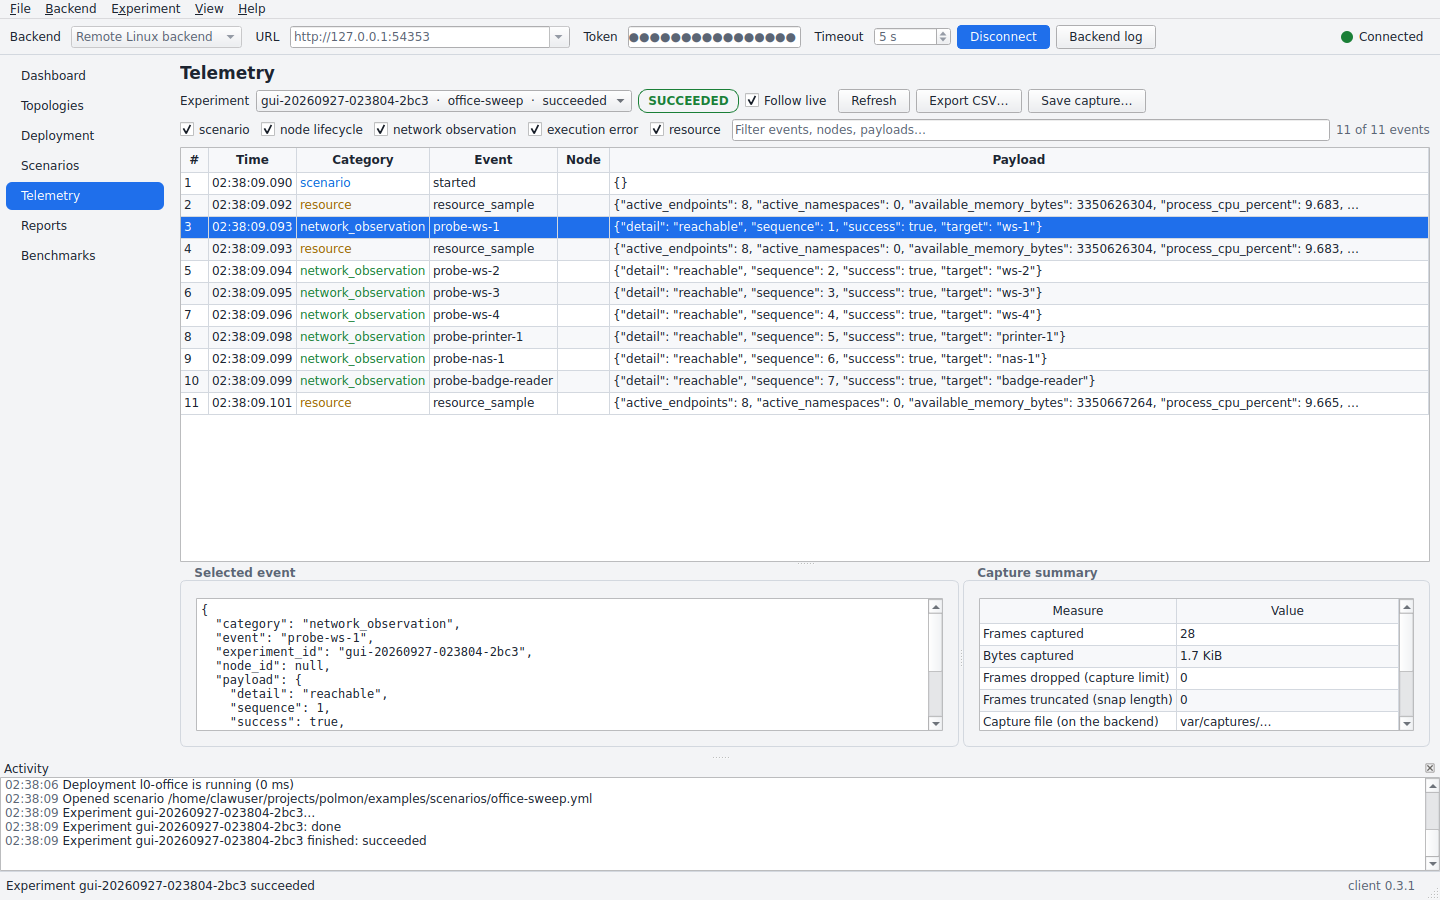
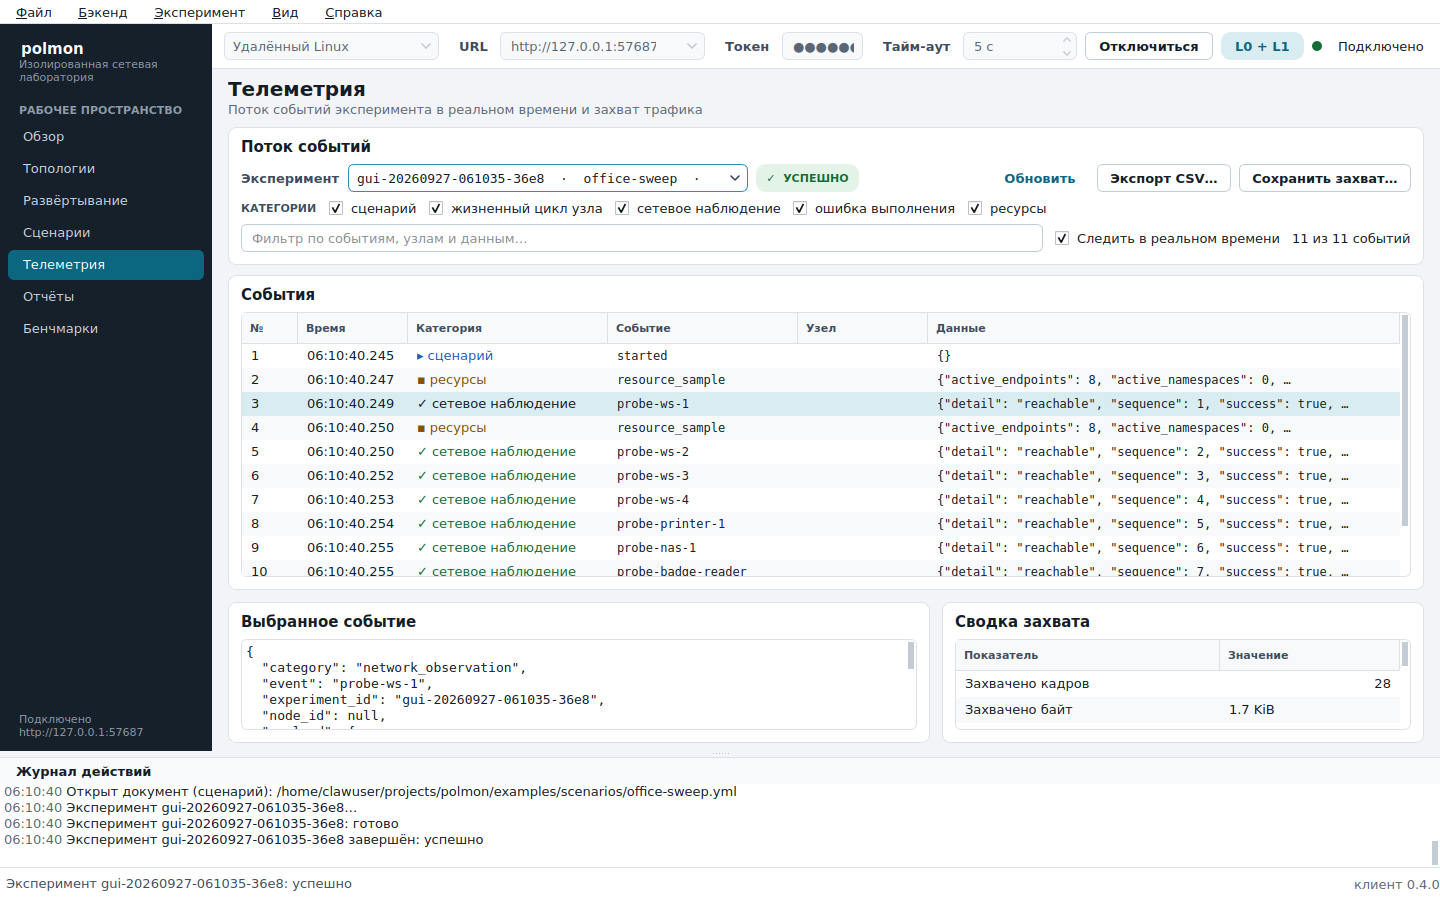
docs(ui): UI guide, approach (a), and real Russian renders of v0.4.0
- docs/UI-GUIDE.md: languages and gates, the enforced glossary, design tokens for both themes,
  spacing/type/radius scales, layout and components, usability floor, shortcuts, and the
  screenshot inventory with before/after pairs and the language-switch proof.
- ARCHITECTURE.md: localization design and backend text by message code (approach (a); (b)
  rejected, with reasons). README and CLIENT.md: the language switch.
- docs/ui: all 15 renders regenerated from the running v0.4.0 client and a live backend at
  1440x900 in Russian, plus before-switch-ru and language-switch-en.

diff --git a/docs/UI-GUIDE.md b/docs/UI-GUIDE.md
@@ -1,0 +1,249 @@
+# Desktop client UI guide
+
+The visual system, the language rules and the evidence for the polmon desktop client
+(`polmon-client`). The product UI is Russian by default and English on request; this guide and
+all other documentation stay in English. Code: `src/polmon/client/theme.py` (tokens and
+stylesheet), `widgets.py` (components), `i18n.py` and `locales/` (catalogs).
+
+## 1. Languages
+
+- **Russian is the default.** English is selectable at run time from *Вид → Язык / View →
+  Language* or with **Ctrl+Shift+U**. The switch is immediate: no restart, and nothing else
+  changes — connection, open documents, tables, selections, the running operation and the page
+  stay as they were. The choice is stored per user; `--language ru|en` or `POLMON_LANGUAGE`
+  override it for one run.
+- **Every user-visible string comes from a catalog** (`locales/ru.py`, `locales/en.py`, identical
+  key sets). Widgets bind to keys (`bind`, `bind_text`, `bind_tip`) and re-render on a switch;
+  computed text is built from lazy `Msg` values that render when displayed. Plurals follow CLDR
+  (`ru`: one/few/many/other, `en`: one/other).
+- **Qt's own strings** (standard dialog buttons, context menus of text fields) come from Qt's
+  `qtbase_<lang>.qm`, installed with the language; the packaged clients ship `qtbase_ru.qm`.
+- **Backend text is never shown raw.** The backend sends a stable `message_code` and `params`
+  with every error (approach (a), [ARCHITECTURE.md](../ARCHITECTURE.md)); the client renders
+  `backend.<message_code>`. The English backend `message` appears only, quoted, when an older
+  backend sends no code. Tracebacks never reach the UI.
+- **What stays as is:** identifiers and data (topology, node and experiment IDs, URLs, file
+  paths, YAML and JSON documents, event names), the activity log's history (lines keep the
+  language they were written in), and the kept technical terms below.
+
+### Gates
+
+| Gate | What fails it | Where |
+|------|---------------|-------|
+| `scripts/i18n-lint.py` | a literal handed to a Qt text API, English prose or a composed English f-string in client code, Cyrillic outside the catalogs | CI (both OS), `tests/unit/test_i18n_gates.py` |
+| `scripts/i18n-completeness.py` | different key sets or placeholders, wrong plural forms, empty values, English words left in Russian, Cyrillic in English, a glossary variant, a key the code uses but no catalog has (including dynamic families and every backend message code), an unused key | CI (both OS), unit suite |
+| Screen walk (`tests/gui/test_language.py`) | English prose on any Russian screen, Cyrillic on any English screen, lost state across a switch, a missing key looked up at run time | GUI suite, run in Russian and in English |
+
+Evidence of both gates passing and failing on injected violations:
+[evidence/i18n/](evidence/i18n/). Deliberate exceptions carry an `# i18n: allow` comment;
+CLI output, the self-test and the packaged-client probe stay English (they are parsed by CI).
+
+### Glossary
+
+One Russian term per concept. The right column lists variants the completeness gate rejects in
+the Russian catalog.
+
+| English | Russian | Rejected variants |
+|---------|---------|-------------------|
+| backend | бэкенд | `бекенд`, `бэкэнд`, `сервер\s+polmon` |
+| client | клиент | — |
+| deployment / deploy | развёртывание / развернуть | `развертыв`, `деплой` |
+| destroy | разобрать | `уничтож`, `снести` |
+| reset environment | сбросить окружение | — |
+| topology | топология | — |
+| node | узел | `\bнод[аыуе]?\b` |
+| endpoint | конечная точка | `эндпоинт`, `endpoint` |
+| namespace | пространство имён | `неймспейс`, `пространств\w* имен\b` |
+| scenario | сценарий | — |
+| experiment | эксперимент | — |
+| action | действие | — |
+| telemetry | телеметрия | — |
+| report | отчёт | `\bотчет` |
+| benchmark | бенчмарк | `\bтест производительности` |
+| measurement | замер | — |
+| admission control | контроль допуска | — |
+| limit | лимит | `\bквот` |
+| capture | захват | `перехват` |
+| frame | кадр | `фрейм` |
+| validate / validation | проверить / проверка | `валидац` |
+| timeout | тайм-аут | `таймаут` |
+| activity log | журнал действий | `\bлог\b`, `\bлоги\b` |
+| CPU | ЦП | `\bCPU\b` |
+| emulation level (fidelity) | уровень эмуляции | — |
+| token | токен | — |
+
+**Kept as is** in both languages (names, protocols, formats, units): polmon, L0, L1, L2, TAP,
+YAML, JSON, PCAP, CSV, Markdown, HTTP(S), API, URL, IP, IPv4, MAC, ICMP, TCP, ARP, TTL,
+Ethernet, EtherType, RSS, ID, SHA-256, Linux, Windows, systemd, sudo, iproute2, ping, veth,
+Qt, PySide6, and the byte units B, KiB, MiB, GiB (`scripts/i18n_audit.py`, `KEPT_TERMS`).
+Mixed forms are fine where Russian usage has them: *MAC-адрес*, *IP-адрес*,
+*loopback-интерфейс*.
+
+**Numbers and units.** Decimal point in both languages (values are copied into YAML and
+tickets); byte sizes in IEC units; durations in the language's abbreviations: `мс`, `с`, `мин`,
+`ч` / `ms`, `s`, `min`, `h` (`unit.*` keys). Timestamps are ISO-like `YYYY-MM-DD HH:MM:SS`.
+
+**Style.** Sentence case for titles, buttons and menu items; buttons are verbs in the
+infinitive (*Развернуть*, *Разобрать*, *Сбросить окружение*); Russian quotes «…» around names;
+`ё` is always written; no exclamation marks; errors say what happened, then what to do.
+
+## 2. Design tokens
+
+One accent (deep teal) on slate neutrals. Semantic colours are for status only; each has a soft
+surface for banners and badges. `theme.TOKENS`:
+
+| Token | Light | Dark | Use |
+|-------|-------|------|-----|
+| `bg` | `#f2f4f7` | `#0e131a` | window and page background |
+| `surface` | `#ffffff` | `#161d26` | cards, inputs, tables |
+| `surface_alt` | `#f7f9fb` | `#1b232d` | tiles, alternate rows, table headers |
+| `surface_hover` | `#eef2f6` | `#222c38` | hovered rows and buttons |
+| `border` | `#dce1e8` | `#2a3542` | card and input borders |
+| `border_strong` | `#c3cbd5` | `#3a4757` | editors, focused groups |
+| `text` | `#141c26` | `#e6ebf1` | body text and values |
+| `text_secondary` | `#3f4b5b` | `#b8c2ce` | field labels, tile captions |
+| `text_muted` | `#5a6676` | `#95a1af` | hints, subtitles, secondary lines |
+| `accent` | `#0b6680` | `#2d9cbd` | primary buttons, links, selection, charts |
+| `accent_hover` | `#08546a` | `#3fb0d2` | primary hover |
+| `accent_pressed` | `#064456` | `#2587a4` | primary pressed |
+| `accent_soft` | `#d9ecf2` | `#173746` | selected rows, quiet-button hover, pills |
+| `accent_text` | `#ffffff` | `#06121a` | text on `accent` |
+| `success` | `#146c36` | `#4cc37a` | succeeded, connected, met |
+| `warning` | `#8a4f00` | `#e3a33b` | cancelled, not run, modified |
+| `danger` | `#b42318` | `#f0736a` | failed, refused, destructive buttons |
+| `info` | `#1d5bb8` | `#7aa7f5` | running, connecting |
+| `success_soft` | `#e3f3e8` | `#132b1d` | success banner/badge surface |
+| `warning_soft` | `#fcf0d8` | `#33260f` | warning banner/badge surface |
+| `danger_soft` | `#fce9e7` | `#3a1716` | error banner/badge surface |
+| `info_soft` | `#e4ecfa` | `#152540` | information banner/badge surface |
+| `nav_bg` | `#16202b` | `#0a0f15` | sidebar |
+| `nav_hover` | `#212e3c` | `#16202b` | sidebar hover |
+| `nav_active` | `#0b6680` | `#1f7f9c` | current page |
+| `nav_text` | `#cdd6e0` | `#c3cdd8` | sidebar items |
+| `nav_text_active` | `#ffffff` | `#ffffff` | current page, product name |
+| `nav_muted` | `#8f9cab` | `#8593a3` | sidebar section and footer |
+| `chart` | `#0b6680` | `#3fb0d2` | sparklines |
+| `focus` | `#2b8fb0` | `#3fb0d2` | keyboard-focus ring |
+
+Themes: *system* (follows the OS), *light*, *dark* — **Ctrl+Shift+T** cycles them.
+
+### Scales
+
+| Scale | Steps |
+|-------|-------|
+| Spacing (`SPACE`, 4-px grid) | `xs` 4 · `sm` 8 · `md` 12 · `lg` 16 · `xl` 24 |
+| Type (`TYPE`, px) | caption 11 · body 13 (strong 13/600) · subtitle 15 · title 20 · metric 22 |
+| Radius (`RADIUS`) | control 6 · card 8 · pill 10 |
+| Control height | 28 px for buttons, inputs, combo and spin boxes |
+
+Page padding is `lg` horizontally and `sm` vertically; cards have `md` padding and `sm` gaps;
+tiles show a caption (11/600), one metric (22/600) and one muted detail line.
+
+## 3. Layout and components
+
+- **Window:** dark sidebar (brand, *Рабочее пространство* navigation, connection footer), a
+  connection header (mode, URL, token, timeout, connect/disconnect, emulation-level pill,
+  state), the page, the dockable activity log and the status bar (connection summary, busy
+  indicator or operation progress with *Отменить*, client version).
+- **Page:** title and one-line subtitle, header actions on the right, one problem banner, then
+  cards. Everything fits 1440×900 in both languages with a banner shown
+  (`test_window_fits_1440_by_900_on_every_page_with_banners`).
+- **Card** (`Card`): title, optional muted hint, content. **KeyValueGrid**: label/value pairs in
+  column pairs, long values in the first column, identifiers monospaced and never broken.
+  **ResourceTiles**: live counters with sparklines. **Tables** (`make_table`): sortable,
+  resizable, alternating rows, monospaced identifier columns, numbers right-aligned, status
+  cells with glyph + word; columns fit their content and a long cell cannot take the table.
+- **Buttons by role:** *primary* (filled accent, one per area), *secondary* (outlined),
+  *danger* (red outline; always confirmed), *quiet* (text only, for links such as *Все отчёты*).
+- **States** (`StateView`): *empty* (○ + what to do next), *loading* (spinner + what is
+  loading), *error* (✕ + the problem), always with a sentence, never a blank area.
+- **Feedback:** problem banners (title — detail, bullet items, hint; closable), a status-bar
+  busy indicator for any request that takes longer than 400 ms, operation progress with
+  percentage, step, elapsed time, ETA and *Отменить* (Esc), and a task-bar alert when a long
+  operation ends while the window is in the background.
+- **Destructive actions** (*Разобрать*, *Сбросить окружение*, quitting with an operation
+  running) ask for confirmation in a dialog that names the object and the consequence.
+
+## 4. Usability floor
+
+- **Contrast ≥ 4.5:1** for every text/background token pair in both themes, verified by
+  `tests/unit/test_theme_contrast.py` (72 pairs).
+- **Never colour alone:** each status has its own glyph — ✓ success, ● in progress, ! warning,
+  ✕ error, ○ inactive — beside the word, in tables, badges, tiles and the status bar.
+- **Keyboard:** every action has a menu entry; tab order follows reading order; the focus ring
+  uses `focus`; the shortcut list is in *Справка → Сочетания клавиш* (F1) and in
+  [CLIENT.md](CLIENT.md#keyboard-shortcuts).
+- **Assistive technology:** every input, editor, list and table has an accessible name from the
+  catalog (`a11y.*`), checked by `test_inputs_editors_and_views_have_accessible_names`.
+
+| Keys | Action |
+|------|--------|
+| Ctrl+Return | connect / disconnect |
+| Ctrl+L | focus the backend URL |
+| F5 | refresh |
+| Ctrl+O / Ctrl+Shift+O | open a topology / a scenario |
+| Ctrl+S | save the current document |
+| Ctrl+Shift+V | validate |
+| Ctrl+D / Ctrl+Shift+D | deploy / destroy |
+| Ctrl+Shift+R | reset the environment |
+| Ctrl+R | run the experiment |
+| Esc | cancel the running operation |
+| Ctrl+1 … Ctrl+7 | go to a page |
+| Ctrl+Shift+T | cycle the theme |
+| Ctrl+Shift+L | show or hide the activity log |
+| Ctrl+Shift+U | switch the UI language |
+| F1 | keyboard shortcuts |
+| Ctrl+Q | quit |
+
+## 5. Screenshot inventory
+
+All images are real renders of the running client (`scripts/ui_screenshots.py`: offscreen
+platform, window 1440×900, a live `polmon-backend` with an API token, the `l0-office` topology
+and the `office-sweep` scenario). CI renders the same set, plus the English UI, as the
+`ui-screenshots` artifact. Details: [ui/SCREENSHOTS.md](ui/SCREENSHOTS.md).
+
+### Before / after
+
+The *before* images are the v0.3.2 client (commit `cfa3f18`, English, pre-Phase IV); the
+*after* images are this version in Russian, the default.
+
+| Screen | Before (v0.3.2) | After |
+|--------|-----------------|-------|
+| Dashboard | [ui/before/dashboard.png](ui/before/dashboard.png) | [ui/dashboard.png](ui/dashboard.png) |
+| Deployment | [ui/before/deployment.png](ui/before/deployment.png) | [ui/deployment.png](ui/deployment.png) |
+
+What changed on these two screens: a dark navigation sidebar replaces the light list; the
+connection controls moved into a slim header with the emulation-level pill; identity and
+admission limits became aligned key/value cards; live counters became tiles with a metric,
+one explanatory line and a sparkline; tables gained monospaced identifiers, right-aligned
+numbers and status glyphs; destructive buttons are styled as such and confirmed; empty tables
+say what to do next.
+
+### Language switch
+
+| Image | Shows |
+|-------|-------|
+| [ui/before-switch-ru.png](ui/before-switch-ru.png) | the deployment page in Russian just before the switch |
+| [ui/language-switch-en.png](ui/language-switch-en.png) | the same window after *View → Language → English* at run time: same connection, deployment, selection and banner |
+
+### Every screen (Russian)
+
+| Image | Screen |
+|-------|--------|
+| [ui/local-backend.png](ui/local-backend.png) | *Локальный (только L0)* preset: owned loopback backend, L0-only pill |
+| [ui/dashboard.png](ui/dashboard.png) | Обзор: backend identity, admission limits, live resources, recent experiments |
+| [ui/topologies.png](ui/topologies.png) | Топологии: editor, validation, nodes/networks inspector, resource fit |
+| [ui/validation-error.png](ui/validation-error.png) | a validation problem pointing at its YAML line |
+| [ui/deployment.png](ui/deployment.png) | Развёртывание: target, deployments, owned resources, counters |
+| [ui/admission-rejected.png](ui/admission-rejected.png) | a refusal by admission control naming the limit |
+| [ui/scenarios.png](ui/scenarios.png) | Сценарии: a finished experiment with per-action status |
+| [ui/telemetry.png](ui/telemetry.png) | Телеметрия: filtered event stream, payload, capture summary |
+| [ui/reports.png](ui/reports.png) | Отчёты: status and expected-versus-actual conditions |
+| [ui/report-markdown.png](ui/report-markdown.png) | the report rendered in Russian from its JSON |
+| [ui/benchmarks.png](ui/benchmarks.png) | Бенчмарки: a bounded job, its limits and the retained result |
+| [ui/dashboard-dark.png](ui/dashboard-dark.png) | the dashboard in the dark theme |
+| [ui/scenarios-dark.png](ui/scenarios-dark.png) | the scenario page in the dark theme |
+
+[ui/local-backend-refusal-windows.png](ui/local-backend-refusal-windows.png) is the v0.3.0
+Windows-runner render of the L1 refusal (English, before this localization); it is kept as the
+Phase III record.

diff --git a/ARCHITECTURE.md b/ARCHITECTURE.md
@@ -75,3 +75,24 @@ tracks the connection (`connected`, `unauthorized`, `lost`) and refreshes resour
 deployments. The client imports no backend implementation module (enforced by a test); the
 backend gained additive routes for inspection, live experiment progress, telemetry paging, the
 Markdown report and bounded benchmark jobs ([docs/API.md](docs/API.md)).
+
+### Localization and backend text (approach (a))
+
+The UI is Russian by default and English on request, switched at run time without a restart
+([docs/UI-GUIDE.md](docs/UI-GUIDE.md), plan of record [docs/UI-RU-PLAN.md](docs/UI-RU-PLAN.md)).
+`polmon.client.i18n` is Qt-free: catalogs are Python modules (`locales/ru.py`, `locales/en.py`)
+with CLDR plurals; widgets bind to catalog keys and computed text is held as lazy `Msg` values,
+so a switch re-renders every screen in place. Qt's own strings follow via `qtbase_<lang>.qm`.
+
+Backend-originated text uses **approach (a): machine code plus parameters.** The backend is not
+localized and needs no locale negotiation. Every error document keeps its English `message`
+(the Phase III contract and every existing API consumer stay valid) and adds `message_code` and
+`params`: `{"error": {"code", "message", "message_code", "params", "details"}}`. Validation
+items, experiment `error_details`, benchmark jobs (`message_code`, `message_params`) and YAML
+errors (line, column, `problem_code`) carry codes the same way. The client renders
+`backend.<message_code>` from its catalog with the parameters; only a backend without codes (an
+older version) gets its English text shown, quoted inside a localized sentence. Approach (b)
+(the backend translating per request) was rejected: it would put a second catalog and locale
+handling into a service that has no UI, and codes are testable identifiers. Two tests keep the
+contract: every backend raise site passes a code (`tests/unit/test_error_codes.py`), and every
+code the backend can send has a Russian and an English entry (`scripts/i18n-completeness.py`).

diff --git a/docs/ui/SCREENSHOTS.md b/docs/ui/SCREENSHOTS.md
@@ -5,10 +5,11 @@ a real `polmon-backend` process with an API token, the unmodified main window, t
 `l0-office` example topology and the `office-sweep` scenario. CI regenerates the same
 set as the `ui-screenshots` artifact.
 
-- Generated: 2026-09-27 00:38 UTC
-- polmon 0.3.1, Qt 6.11.2, PySide6 6.11.2
+- Generated: 2026-09-27 04:10 UTC
+- polmon 0.4.0, Qt 6.11.2, PySide6 6.11.2
 - Platform: `offscreen` on Linux 6.8.0-138-generic, window 1440×900
-- Experiment: `gui-20260927-023804-2bc3`
+- Experiment: `gui-20260927-061035-36e8`
+- UI language: `ru`
 
 ## local-backend
 
@@ -48,7 +49,7 @@ Report: overall status and expected-versus-actual conditions.
 
 ## report-markdown
 
-The human-readable Markdown report as generated by the backend.
+The human-readable report, rendered by the client from the JSON report in the UI language.
 
 ![report-markdown](report-markdown.png)
 
@@ -87,3 +88,15 @@ Dark theme: dashboard.
 Dark theme: scenarios.
 
 ![scenarios-dark](scenarios-dark.png)
+
+## before-switch-ru
+
+The deployment page in RU just before the runtime language switch.
+
+![before-switch-ru](before-switch-ru.png)
+
+## language-switch-en
+
+The same window after View → Language → EN at run time: no restart, the connection, the deployment and the page state are unchanged.
+
+![language-switch-en](language-switch-en.png)

diff --git a/docs/CLIENT.md b/docs/CLIENT.md
@@ -22,7 +22,19 @@ Command-line options: `--version`; `--self-test` (checks Qt, its plugins, the ma
 API client without opening a window; exit status 0 when healthy); `--smoke-start SECONDS` (shows
 the window on the native platform and reports start-up time and memory); `--url URL` (prefill the
 backend URL and select the remote preset); `--backend-executable PATH` (override the local child);
-`--local-backend-self-test`; `--theme system|light|dark`; `--install-desktop-entry` (Linux).
+`--local-backend-self-test`; `--theme system|light|dark`; `--language ru|en`;
+`--install-desktop-entry` (Linux).
+
+## Language
+
+The client is in Russian by default. *Вид → Язык → English* (View → Language), or
+**Ctrl+Shift+U**, switches to English immediately — the connection, open documents, tables and a
+running operation are kept — and the choice is remembered. `--language` or the
+`POLMON_LANGUAGE` environment variable override it for one run. This guide names controls by
+their English labels; terms and their Russian equivalents are in the glossary of
+[UI-GUIDE.md](UI-GUIDE.md#glossary). Refusals from the backend (for example the Local backend's
+L0-only refusal) are shown in the UI language; the English backend text appears only for a
+backend older than v0.4.0.
 
 ## Connect
 

diff --git a/README.md b/README.md
@@ -29,6 +29,11 @@ for L1 and hybrid TAP experiments. Linux releases also contain
 `polmon-backend-<version>-linux-x64.tar.gz`, a Qt-free backend bundle that runs without Python,
 pip, or a virtual environment.
 
+Phase IV (v0.4.0) localizes the desktop client — Russian by default, English switchable at run
+time, backend refusals rendered from stable message codes — and redesigns its interface (design
+tokens, dark navigation, cards and metric tiles, empty/loading/error states, ≥ 4.5:1 contrast).
+Visual system, glossary and before/after screenshots: [docs/UI-GUIDE.md](docs/UI-GUIDE.md).
+
 ## Which download?
 
 Every [release](https://github.com/blindicide/polmon/releases) carries these assets and a
